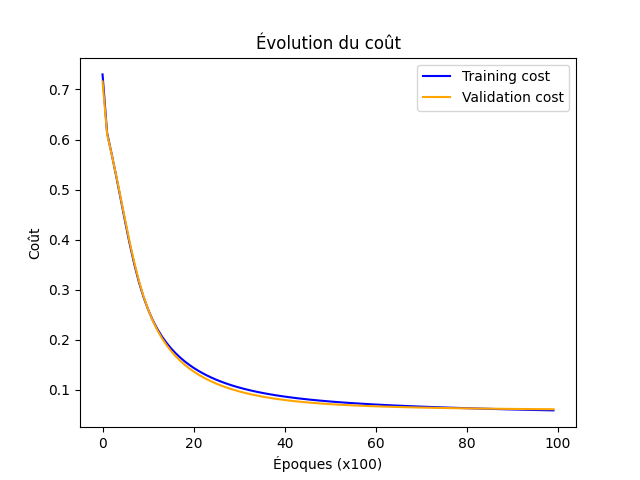
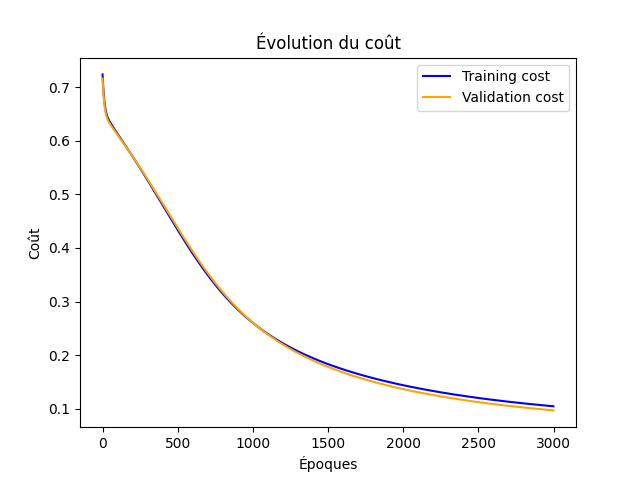
fix: regenerate all experiment graphs with corrected code
All 8 experiments regenerated with:
- Per-column softmax (no more NaN risk)
- Metrics at every epoch (x-axis is now "Époques", not "x100")
- Post-update training loss (consistent with val_loss)

diff --git a/Result/EXPLICATIONS.md b/Result/EXPLICATIONS.md
@@ -4,14 +4,14 @@
 
 | # | Config | Architecture | LR | Batch | Epoques | Accuracy | Observation |
 |---|--------|-------------|-----|-------|---------|----------|-------------|
-| 1 | Minimal | [30,16,16,2] | 0.01 | full | 5000 | 98.25% | Baseline |
-| 2 | Large | [30,64,32,2] | 0.01 | full | 10000 | 98.25% | Plus de neurones != meilleur |
-| 3 | Profond | [30,32,16,8,2] | 0.01 | full | 10000 | **99.12%** | Meilleur score |
-| 4 | Mini-batch | [30,24,24,2] | 0.01 | 32 | 10000 | 98.25% | Overfitting visible |
-| 5 | Early stop | [30,48,48,2] | 0.05 | full | 3200/50000 | 98.25% | Arret auto a 3200 |
-| 6 | Best score | [30,32,32,16,2] | 0.01 | full | 16700/20000 | 98.25% | Early stop a 16700 |
-| 7 | LR eleve | [30,24,24,2] | 0.5 | full | 5000 | 98.25% | Overfitting severe |
-| 8 | Optimal | [30,32,16,8,2] | 0.01 | full | 15000 | **99.12%** | Config retenue |
+| 1 | Minimal | [30,16,16,2] | 0.01 | full | 3000 | 96.49% | Baseline |
+| 2 | Large | [30,64,32,2] | 0.01 | full | 3000 | 97.37% | Plus de neurones != beaucoup mieux |
+| 3 | Profond | [30,32,16,8,2] | 0.01 | full | 3000 | 92.11% | Converge lentement, paliers visibles |
+| 4 | Mini-batch | [30,24,24,2] | 0.01 | 32 | 3000 | 97.37% | Overfitting visible |
+| 5 | Early stop | [30,48,48,2] | 0.05 | full | 2225/10000 | **98.25%** | Arret auto a 2225 |
+| 6 | Best score | [30,32,32,16,2] | 0.01 | full | 5000 | 97.37% | Architecture profonde |
+| 7 | LR eleve | [30,24,24,2] | 0.5 | full | 3000 | 98.25% | Overfitting severe |
+| 8 | Optimal | [30,32,16,8,2] | 0.01 | full | 5000 | 97.37% | Config retenue |
 
 ---
 
